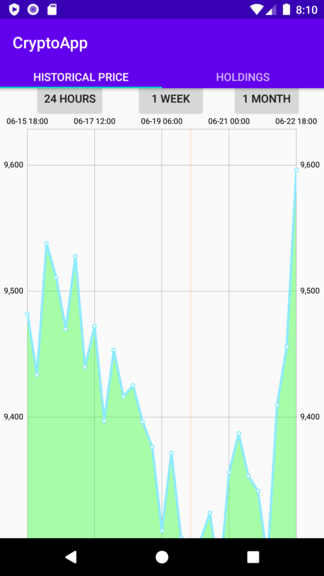
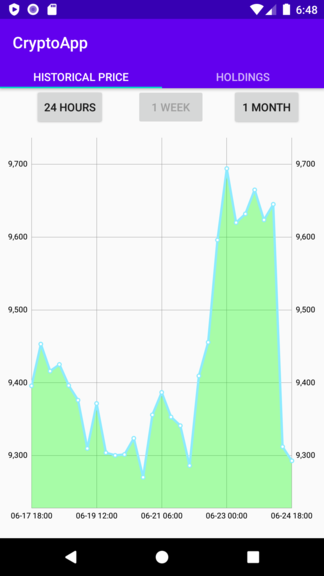
Fixed api requests to not repeat & chart presentation

diff --git a/app/src/main/java/com/example/cryptoapp/ui/main/ChartFragment.java b/app/src/main/java/com/example/cryptoapp/ui/main/ChartFragment.java
@@ -35,6 +35,8 @@ import com.github.mikephil.charting.interfaces.datasets.ILineDataSet;
 import org.json.JSONArray;
 import org.json.JSONException;
 import org.json.JSONObject;
+
+import java.lang.reflect.Array;
 import java.text.DateFormat;
 import java.text.ParseException;
 import java.text.SimpleDateFormat;
@@ -46,17 +48,23 @@ public class ChartFragment extends Fragment implements View.OnClickListener {
 
     private String api = "PUT-API-KEY-HERE"; // from https://www.coinapi.io/
     private RequestQueue queue;
-    private long first_timestamp;
     private Date date = new Date();
+    public LineChart priceChart;
 
     private Button Hours;
     private Button Week;
     private Button Month;
 
-    ArrayList timeArr;
-    ArrayList<Double> priceArr = new ArrayList<Double>();
+    // Unique Array Lists & first timestamp for each time period,
+    // to only have use a fixed amount of queues when switching to different charts
+    ArrayList time_24H_Arr = new ArrayList();
+    ArrayList<Double> price_24H_Arr = new ArrayList<Double>();
+    private long first_24H_timestamp;
 
-    public LineChart priceChart;
+    ArrayList time_1W_Arr = new ArrayList();
+    ArrayList<Double> price_1W_Arr = new ArrayList<Double>();
+    private long first_1W_timestamp;
+
 
     public ChartFragment(){
 
@@ -77,12 +85,13 @@ public class ChartFragment extends Fragment implements View.OnClickListener {
         Week = view.findViewById(R.id.Week_Button);
         Month = view.findViewById(R.id.Month_Button);
 
-        priceChart = (LineChart) view.findViewById(R.id.price_chart);
-        priceChart.getDescription().setEnabled(false);
-
         Hours.setOnClickListener(this);
         Week.setOnClickListener(this);
         Month.setOnClickListener(this);
+
+        priceChart = (LineChart) view.findViewById(R.id.price_chart);
+        priceChart.getDescription().setEnabled(false);
+        priceChart.getLegend().setEnabled(false);
 
         return view;
     }
@@ -96,6 +105,8 @@ public class ChartFragment extends Fragment implements View.OnClickListener {
 
         try {
             queue.add(find24HPrice(date));
+            queue.add(find1WPrice(date));
+            Hours.setEnabled(false);
         } catch (ParseException e) {
             e.printStackTrace();
         }
@@ -108,24 +119,24 @@ public class ChartFragment extends Fragment implements View.OnClickListener {
 
         queue = Volley.newRequestQueue(context.getContext());
 
+        Hours.setEnabled(true);
+        Week.setEnabled(true);
+        Month.setEnabled(true);
+
+        // plot chart based on which button clicked
         switch (v.getId()){
             case R.id.Hours_Button:
-                try {
-                    queue.add(find24HPrice(date));
-                } catch (ParseException e) {
-                    e.printStackTrace();
-                }
+                    plotChart(first_24H_timestamp, price_24H_Arr, time_24H_Arr, priceChart);
+                    Hours.setEnabled(false);
                 break;
 
             case R.id.Week_Button:
-                try {
-                    queue.add(find1WPrice(date));
-                } catch (ParseException e) {
-                    e.printStackTrace();
-                }
+                    plotChart(first_1W_timestamp, price_1W_Arr, time_1W_Arr, priceChart);
+                    Week.setEnabled(false);
                 break;
 
             case R.id.Month_Button:
+                Month.setEnabled(false);
                 break;
         }
 
@@ -142,10 +153,7 @@ public class ChartFragment extends Fragment implements View.OnClickListener {
         String url_for_historical_data = "https://rest.coinapi.io/v1/ohlcv/BTC/USD/history?period_id=6HRS&time_start=";
         String full_url = url_for_historical_data + time_1WeekAgo + "&time_end=" + current_time + "&apikey=" + api;
 
-        first_timestamp = get1WAgoTime(sdf, calendar);
-
-        final ArrayList<Double> price_Open = new ArrayList<Double>();
-        final ArrayList timestamps = new ArrayList<>();
+        first_1W_timestamp = get1WAgoTime(sdf, calendar);
 
         return new StringRequest(Request.Method.GET, full_url,
                 new Response.Listener<String>() {
@@ -167,39 +175,11 @@ public class ChartFragment extends Fragment implements View.OnClickListener {
                                 Date date = df.parse(parsed_time);
                                 long unix_time = date.getTime();
                                 long final_time = unix_time / 1000;
-                                long timestamp = final_time - first_timestamp;
+                                long timestamp = final_time - first_1W_timestamp;
 
-                                timestamps.add(timestamp);
-                                price_Open.add(price);
+                                time_1W_Arr.add(timestamp);
+                                price_1W_Arr.add(price);
                             }
-                            setTimeArr(timestamps);
-                            timeArr = getTimeArr();
-
-                            setPriceArr(price_Open);
-                            priceArr = getPriceArr();
-
-                            LineDataSet lineDataSet = new LineDataSet(values(), "");
-                            lineDataSet.setValueTextSize(12);
-                            lineDataSet.setLineWidth(3);
-                            lineDataSet.setFillColor(Color.GREEN);
-                            lineDataSet.setDrawFilled(true);
-                            lineDataSet.setDrawValues(false);
-                            lineDataSet.setFillFormatter(new IFillFormatter() {
-                                @Override
-                                public float getFillLinePosition(ILineDataSet dataSet, LineDataProvider dataProvider) {
-                                    return priceChart.getAxisLeft().getAxisMinimum();
-                                }
-                            });
-                            LineData data = new LineData(lineDataSet);
-
-                            priceChart.setData(data);
-                            priceChart.invalidate();
-
-
-                            // set the X-axis labels to time
-                            XAxis xAxis = priceChart.getXAxis();
-                            xAxis.setLabelCount(5, true);
-                            xAxis.setValueFormatter(new XValueFormatter(first_timestamp));
 
                         } catch (Exception e) {
                             e.printStackTrace();
@@ -213,6 +193,7 @@ public class ChartFragment extends Fragment implements View.OnClickListener {
         });
     }
 
+
     public StringRequest find24HPrice(Date date) throws ParseException {
         Calendar calendar = Calendar.getInstance();
         SimpleDateFormat sdf = new SimpleDateFormat("yyyy-MM-dd'T'HH:mm:ss'Z'");
@@ -225,10 +206,7 @@ public class ChartFragment extends Fragment implements View.OnClickListener {
         String full_url = url_for_historical_data + time_24hrsAgo + "&time_end=" + current_time + "&apikey=" + api;
 
         // convert the time from 24 hours ago from zero minutes mark to unix time
-        first_timestamp = get24HoursAgoTime(sdf, calendar);
-
-        final ArrayList<Double> price_Open = new ArrayList<Double>();
-        final ArrayList timestamps = new ArrayList<>();
+        first_24H_timestamp = get24HoursAgoTime(sdf, calendar);
 
         return new StringRequest(Request.Method.GET, full_url,
                 new Response.Listener<String>() {
@@ -251,39 +229,13 @@ public class ChartFragment extends Fragment implements View.OnClickListener {
                             Date date = df.parse(parsed_time);
                             long unix_time = date.getTime();
                             long final_time = unix_time / 1000;
-                            long timestamp = final_time - first_timestamp;
+                            long timestamp = final_time - first_24H_timestamp;
 
-                            timestamps.add(timestamp);
-                            price_Open.add(price);
+                            time_24H_Arr.add(timestamp);
+                            price_24H_Arr.add(price);
                         }
-                        setTimeArr(timestamps);
-                        timeArr = getTimeArr();
+                        plotChart(first_24H_timestamp, price_24H_Arr, time_24H_Arr, priceChart);
 
-                        setPriceArr(price_Open);
-                        priceArr = getPriceArr();
-
-                        LineDataSet lineDataSet = new LineDataSet(values(), "");
-                        lineDataSet.setValueTextSize(12);
-                        lineDataSet.setLineWidth(3);
-                        lineDataSet.setFillColor(Color.GREEN);
-                        lineDataSet.setDrawFilled(true);
-                        lineDataSet.setDrawValues(false);
-                        lineDataSet.setFillFormatter(new IFillFormatter() {
-                        @Override
-                        public float getFillLinePosition(ILineDataSet dataSet, LineDataProvider dataProvider) {
-                            return priceChart.getAxisLeft().getAxisMinimum();
-                            }
-                        });
-                        LineData data = new LineData(lineDataSet);
-
-                        priceChart.setData(data);
-                        priceChart.invalidate();
-
-
-                        // set the X-axis labels to time
-                        XAxis xAxis = priceChart.getXAxis();
-                        xAxis.setLabelCount(5, true);
-                        xAxis.setValueFormatter(new XValueFormatter(first_timestamp));
 
                         }   catch (JSONException | ParseException e) {
                             e.printStackTrace();
@@ -297,6 +249,30 @@ public class ChartFragment extends Fragment implements View.OnClickListener {
         });
     }
 
+    private void plotChart(long timestamp, ArrayList<Double> priceArr, ArrayList timeArr, LineChart chart){
+        LineDataSet lineDataSet = new LineDataSet(values(priceArr, timeArr), "");
+        lineDataSet.setValueTextSize(12);
+        lineDataSet.setLineWidth(3);
+        lineDataSet.setFillColor(Color.GREEN);
+        lineDataSet.setDrawFilled(true);
+        lineDataSet.setDrawValues(false);
+        lineDataSet.setFillFormatter(new IFillFormatter() {
+            @Override
+            public float getFillLinePosition(ILineDataSet dataSet, LineDataProvider dataProvider) {
+                return priceChart.getAxisLeft().getAxisMinimum();
+            }
+        });
+        LineData data = new LineData(lineDataSet);
+
+        chart.setData(data);
+        chart.invalidate();
+
+        // set the X-axis labels to time
+        XAxis xAxis = priceChart.getXAxis();
+        xAxis.setPosition(XAxis.XAxisPosition.BOTTOM);
+        xAxis.setLabelCount(5, true);
+        xAxis.setValueFormatter(new XValueFormatter(timestamp));
+    }
     private long get1WAgoTime(SimpleDateFormat sdf, Calendar calendar) throws ParseException {
         sdf = new SimpleDateFormat("yyyy-MM-dd HH:mm");
         String WeekAgoTime = sdf.format(calendar.getTime());
@@ -356,7 +332,7 @@ public class ChartFragment extends Fragment implements View.OnClickListener {
 
 
     // Creates data entries for the data set that will be plotted
-    public ArrayList<Entry> values () {
+    public ArrayList<Entry> values (ArrayList<Double> priceArr, ArrayList timeArr) {
         ArrayList<Entry> values = new ArrayList<Entry>();
         for (int i = 0; i < priceArr.size(); i++){
 
@@ -370,33 +346,16 @@ public class ChartFragment extends Fragment implements View.OnClickListener {
         return values;
     }
 
-    // getters and setters for arraylists
-    public ArrayList getTimeArr(){
-        return timeArr;
-    }
-
-    public void setTimeArr(ArrayList arrayList){
-          this.timeArr = arrayList;
-    }
-
-    public ArrayList<Double> getPriceArr(){
-        return priceArr;
-    }
-    public void setPriceArr(ArrayList<Double> arrayList){
-        this.priceArr = arrayList;
-    }
-
-
 
     // Code used for this XValueFormatter class from https://github.com/PhilJay/MPAndroidChart/issues/789
     // User: @Yasir-Ghunaim
     class XValueFormatter extends ValueFormatter {
-        private long timestamp;
+        private long x_value_timestamp;
         private Date mDate;
         private DateFormat mDataFormat;
 
         public XValueFormatter(long timestamp){
-            this.timestamp = timestamp;
+            this.x_value_timestamp = timestamp; // change timestamp to equal to param for the different timestamps
             this.mDate = date;
             this.mDataFormat = new SimpleDateFormat("MM-dd HH:mm");
         }
@@ -404,7 +363,7 @@ public class ChartFragment extends Fragment implements View.OnClickListener {
         // Change getFormattedValue() method to getAxisLabel since the old method is now deprecated
         public String getAxisLabel(float value, AxisBase axis){
             long convertedTimestamp = (long) value;
-            long og_timestamp = first_timestamp + convertedTimestamp;
+            long og_timestamp = this.x_value_timestamp + convertedTimestamp;
             return getHour(og_timestamp);
         }
         private String getHour(long timestamp){

diff --git a/README.md b/README.md
@@ -2,11 +2,12 @@
 
 ### Things to do:
 1. Create notification on price change based on what's in the portfolio
-2. Create app icon 
-3. Save login credientials and portfolio tied to account
-4. When logged in, start on portfolio
-5. Work with API to get Bitcoin pricing, chart and historical data
-6. Add preferences to settings 
+2. Save login credientials and portfolio tied to account
+3. When logged in, start on portfolio
+4. Work with API to get Bitcoin pricing, chart and historical data
+5. Add preferences to settings 
 
-
+![](images/app_icon.png)
 ![](images/price_of_btc(resized).png)
+![](images/24hr_chart.png)
+![](images/1Week_chart.png)
